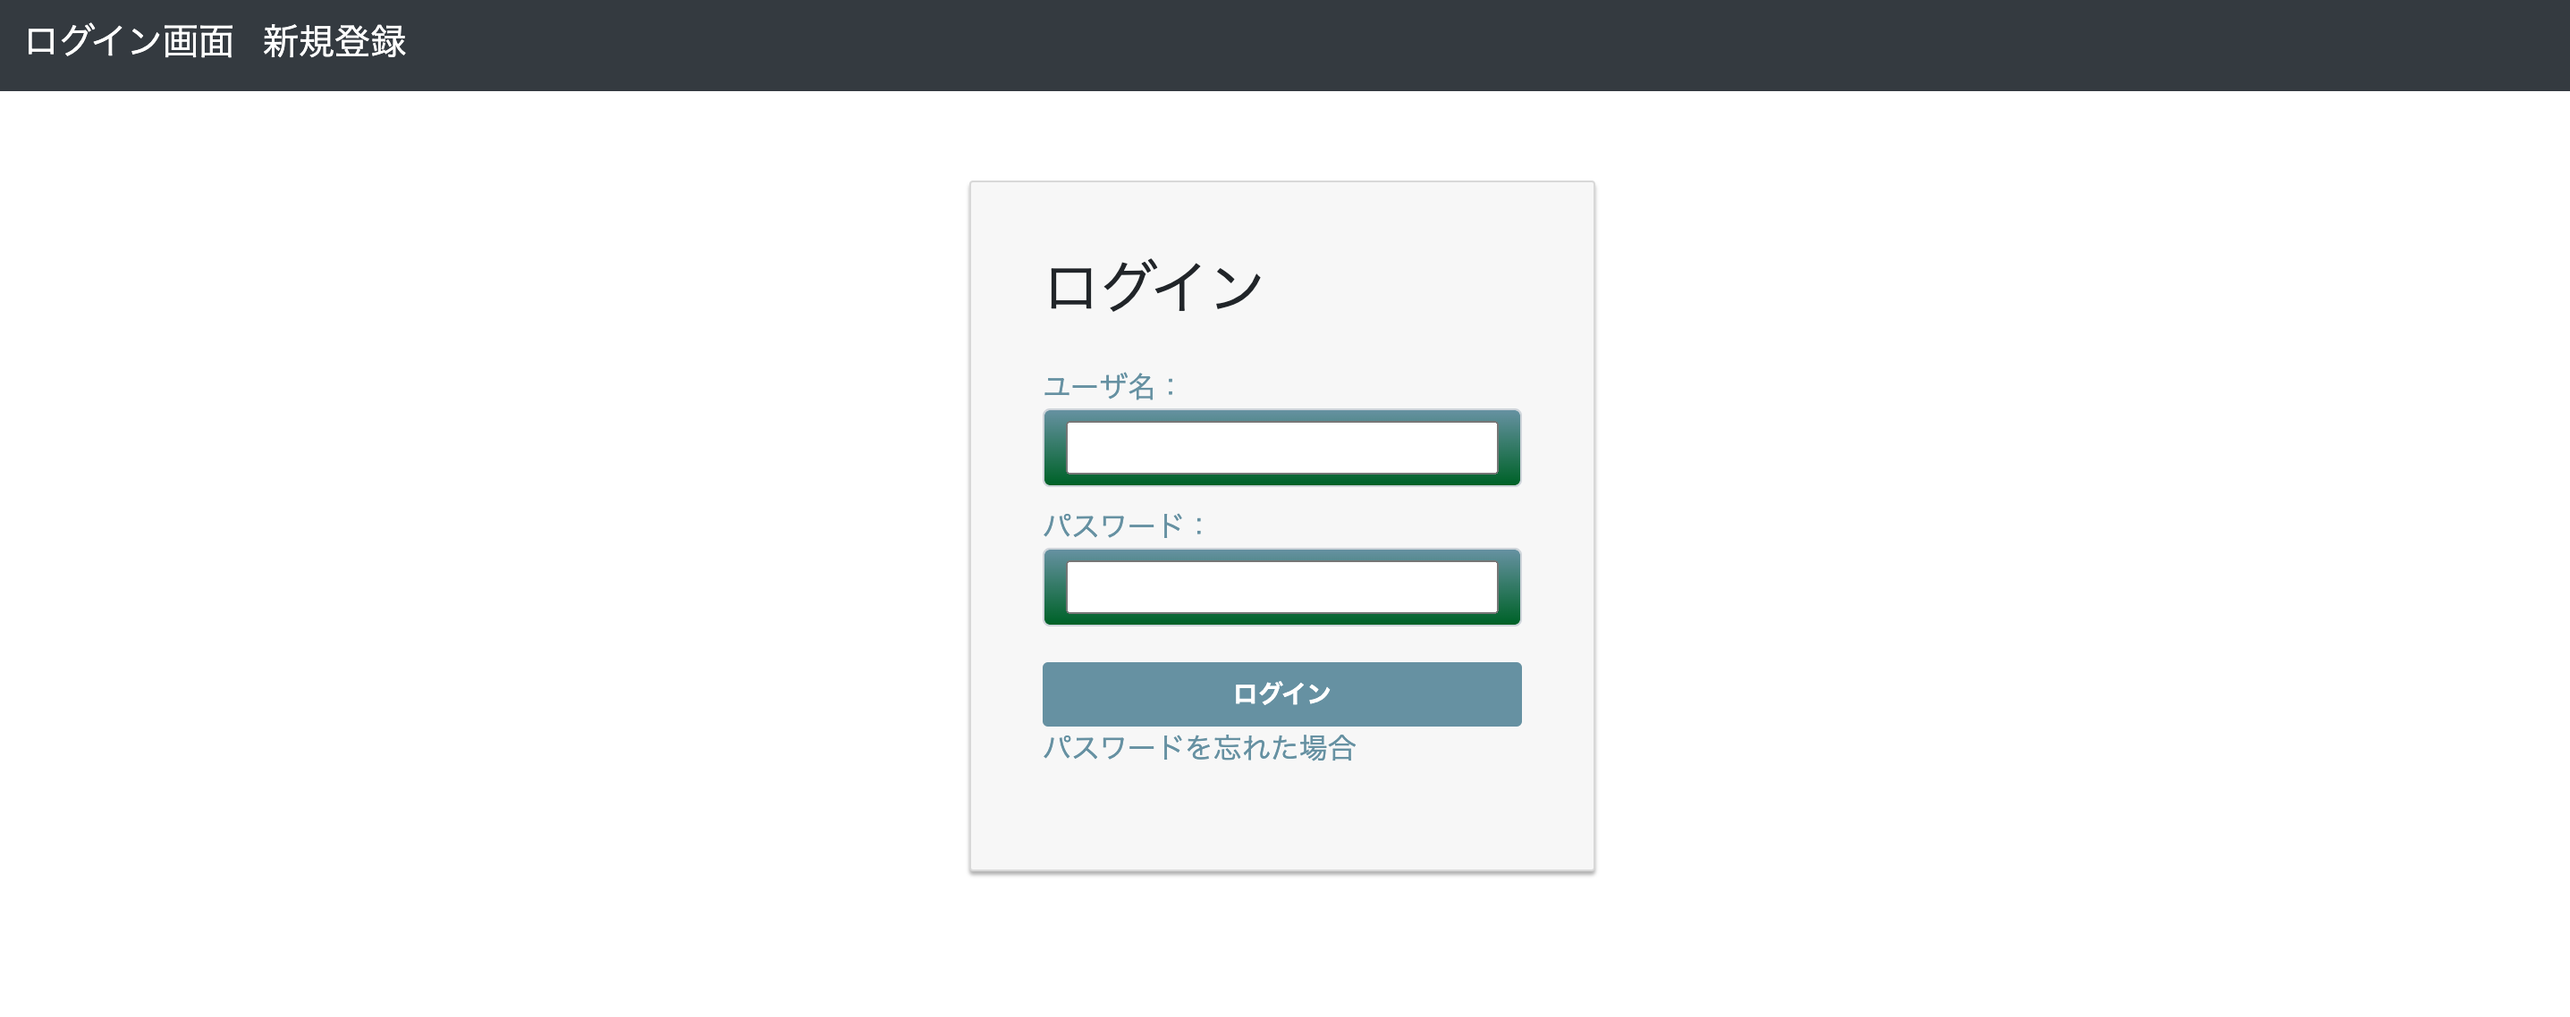
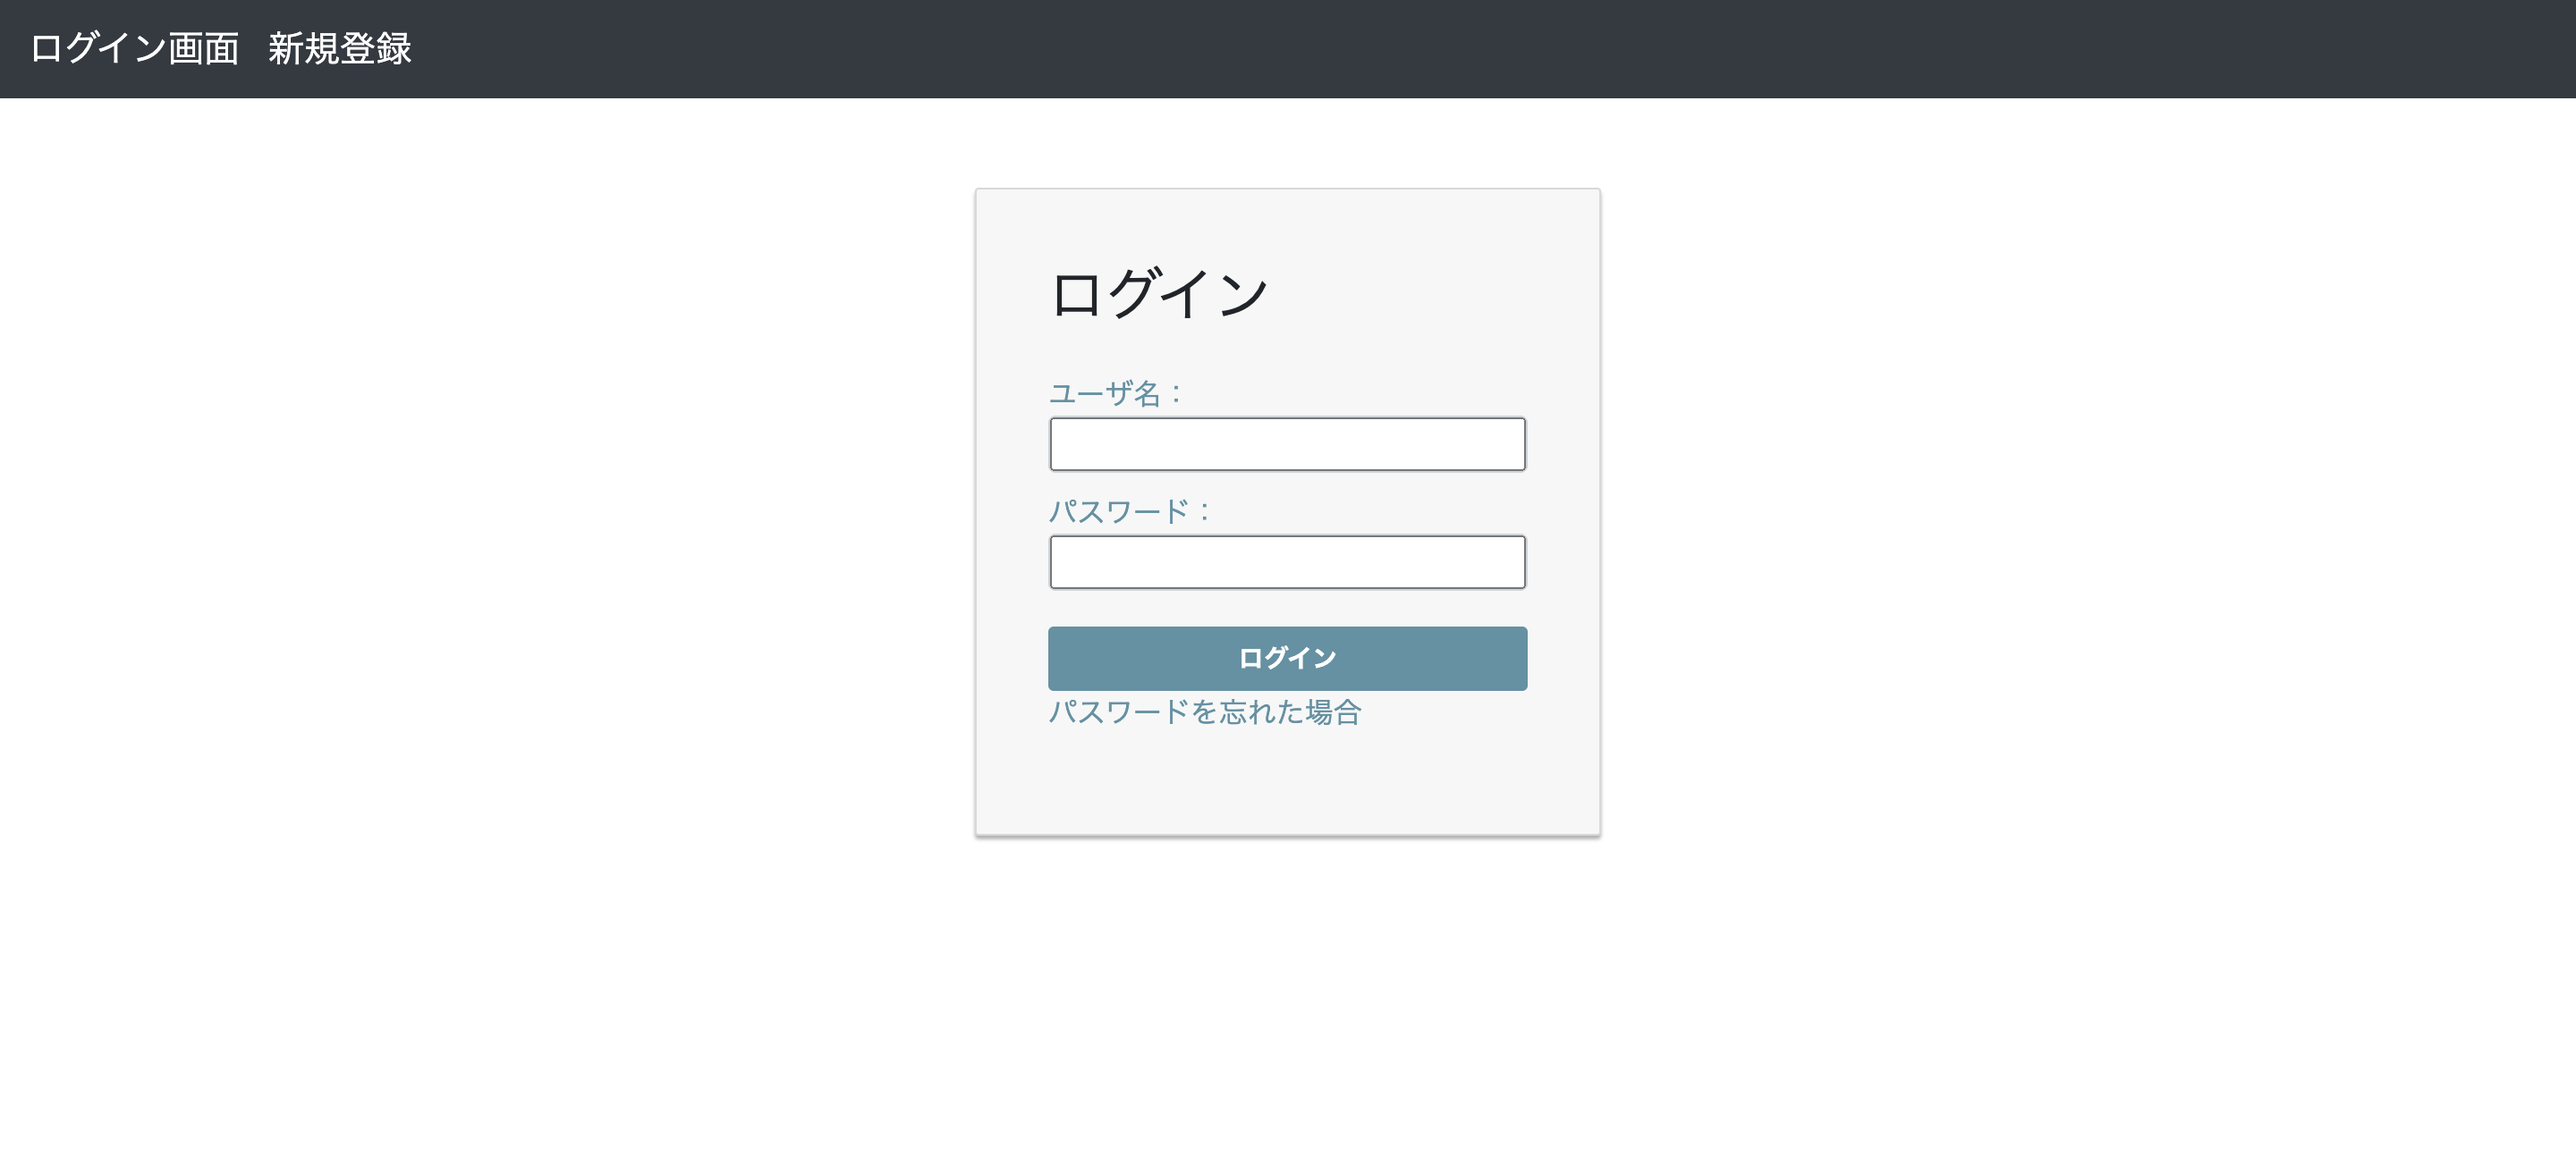
ログイン画面を微修正

diff --git a/static/login.css b/static/login.css
@@ -25,8 +25,8 @@ html {
 }
 
 /*
- * Card component
- */
+  * Card component
+  */
 .card {
     background-color: #F7F7F7;
     /* just in case there no content*/
@@ -50,14 +50,14 @@ html {
     color: rgb(104, 145, 162);
 }
 
-.form-signin #password {
-    background-image: linear-gradient(rgb(104, 145, 162), rgb(12, 97, 33));
+a#password.form-control {
     margin-bottom: 20px;
+    padding: 0;
 }
 
-.form-signin #username {
-    background-image: linear-gradient(rgb(104, 145, 162), rgb(12, 97, 33));
+a#username.form-control {
     margin-bottom: 10px;
+    padding: 0;
 }
 
 .form-signin input[type="text"][name="username"],
@@ -75,10 +75,9 @@ html {
 .form-signin input[type="text"][name="username"]:focus,
 .form-signin input[type="password"][name="password"]:focus,
 .form-signin .form-control:focus {
-    border-color: rgb(104, 145, 162);
     outline: 0;
-    -webkit-box-shadow: inset 0 1px 1px rgba(0, 0, 0, .075), 0 0 8px rgb(104, 145, 162);
-    box-shadow: inset 0 1px 1px rgba(0, 0, 0, .075), 0 0 8px rgb(104, 145, 162);
+    -webkit-box-shadow: none;
+    box-shadow: none;
 }
 
 .btn.btn-signin {

diff --git a/templates/registration/base_login.html b/templates/registration/base_login.html
@@ -20,9 +20,9 @@
           <a class="navbar-brand" href="{% url 'signup' %}">新規登録</a>
         </nav>
          <div class="container mt-4">
-        {% block main %}
-        <p>※コンテンツがありません。</p>
-        {% endblock %}
+            {% block main %}
+            <p>※コンテンツがありません。</p>
+            {% endblock %}
         </div>
 <!-- Optional JavaScript -->
 <!-- jQuery first, then Popper.js, then Bootstrap JS -->
